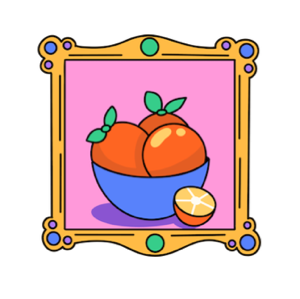
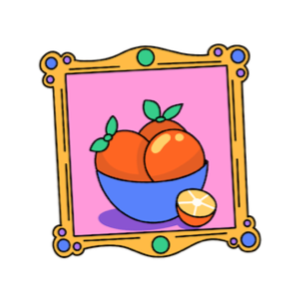
[PREVIEW] Why Juicebox homepage section with parallax effect

Changed region(s): [[0.12, 0.0903, 0.87, 0.8729]]

diff --git a/src/pages/home/NewHomePage/BuiltForSection/BuiltForBlobAndImage.tsx b/src/pages/home/NewHomePage/BuiltForSection/BuiltForBlobAndImage.tsx
@@ -1,0 +1,73 @@
+import { ThemeContext } from 'contexts/Theme/ThemeContext'
+import useMobile from 'hooks/Mobile'
+import debounce from 'lodash/debounce'
+import Image from 'next/image'
+import { useContext, useEffect, useState } from 'react'
+
+// ***CAUTION*** If anything change above the blob/image, this needs to be updated
+const Y_OFFSET_CONSTANT = 650
+
+export function BuiltForBlobAndImage({
+  card,
+}: {
+  card: 'daos' | 'crowdfunding' | 'nfts' | 'builders'
+}) {
+  const { forThemeOption } = useContext(ThemeContext)
+  const isMobile = useMobile()
+
+  const [scrollPosition, setScrollPosition] = useState(0)
+
+  // Handle parallax effect on scroll
+  useEffect(() => {
+    const handleScroll = debounce(() => {
+      setScrollPosition(window.pageYOffset + Y_OFFSET_CONSTANT)
+    }, 10)
+
+    window.addEventListener('scroll', handleScroll)
+    return () => {
+      window.removeEventListener('scroll', handleScroll)
+    }
+  }, [])
+
+  const imageSrc = `/assets/images/home/why-juicebox/why-jb-${card}.png`
+
+  let blobSrc = ''
+
+  if (forThemeOption) {
+    blobSrc = forThemeOption({
+      light: `/assets/images/home/why-juicebox/blobs-light/blob-${card}.png`,
+      dark: `/assets/images/home/why-juicebox/blobs-dark/blob-${card}.png`,
+    })
+  }
+
+  if (!blobSrc.length) return null
+
+  // Parallax style
+  const transformStyle = {
+    transform: `translate(0%, calc(-50% + ${scrollPosition * 0.05}px))`,
+    transformOrigin: `center`,
+  }
+
+  return (
+    <div className={`relative h-[180px] w-[180px]`}>
+      <div className="absolute inset-5">
+        <Image
+          src={blobSrc}
+          alt={`${card}-blob`}
+          width={144}
+          height={144}
+          className="object-fit object-center"
+        />
+      </div>
+      <div className="absolute inset-0" style={!isMobile ? transformStyle : {}}>
+        <Image
+          src={imageSrc ?? ''}
+          alt={card}
+          width={180}
+          height={180}
+          className="object-cover object-center"
+        />
+      </div>
+    </div>
+  )
+}

diff --git a/src/pages/home/NewHomePage/BuiltForSection/BuiltForCard.tsx b/src/pages/home/NewHomePage/BuiltForSection/BuiltForCard.tsx
@@ -1,6 +1,4 @@
-import { ThemeContext } from 'contexts/Theme/ThemeContext'
-import Image from 'next/image'
-import { useContext } from 'react'
+import { BuiltForBlobAndImage } from './BuiltForBlobAndImage'
 
 export function BuiltForCard({
   card,
@@ -11,45 +9,10 @@ export function BuiltForCard({
   heading: string | JSX.Element
   subheading: string | JSX.Element
 }) {
-  const { forThemeOption } = useContext(ThemeContext)
-
-  const imageSrc = `/assets/images/home/why-juicebox/why-jb-${card}.png`
-  const imageWidth = 180
-
-  let blobSrc = ''
-
-  if (forThemeOption) {
-    blobSrc = forThemeOption({
-      light: `/assets/images/home/why-juicebox/blobs-light/blob-${card}.png`,
-      dark: `/assets/images/home/why-juicebox/blobs-dark/blob-${card}.png`,
-    })
-  }
-
-  if (!blobSrc.length) return null
-
   return (
     <div className="flex flex-col items-center">
-      <div className={`relative w-[${imageWidth}px] h-[${imageWidth}px]`}>
-        <div className="absolute inset-0">
-          <Image
-            src={blobSrc}
-            alt={`${card}-blob`}
-            width={imageWidth}
-            height={imageWidth}
-            className="object-fit object-center"
-          />
-        </div>
-        <div className="absolute inset-0">
-          <Image
-            src={imageSrc ?? ''}
-            alt={card}
-            width={imageWidth}
-            height={imageWidth}
-            className="object-cover object-center"
-          />
-        </div>
-      </div>
-      <h3 className="text-primary mt-10 whitespace-nowrap text-center text-2xl">
+      <BuiltForBlobAndImage card={card} />
+      <h3 className="text-primary mt-5 whitespace-nowrap text-center text-2xl">
         {heading}
       </h3>
       <p className="text-center text-base text-grey-700 dark:text-slate-200">
